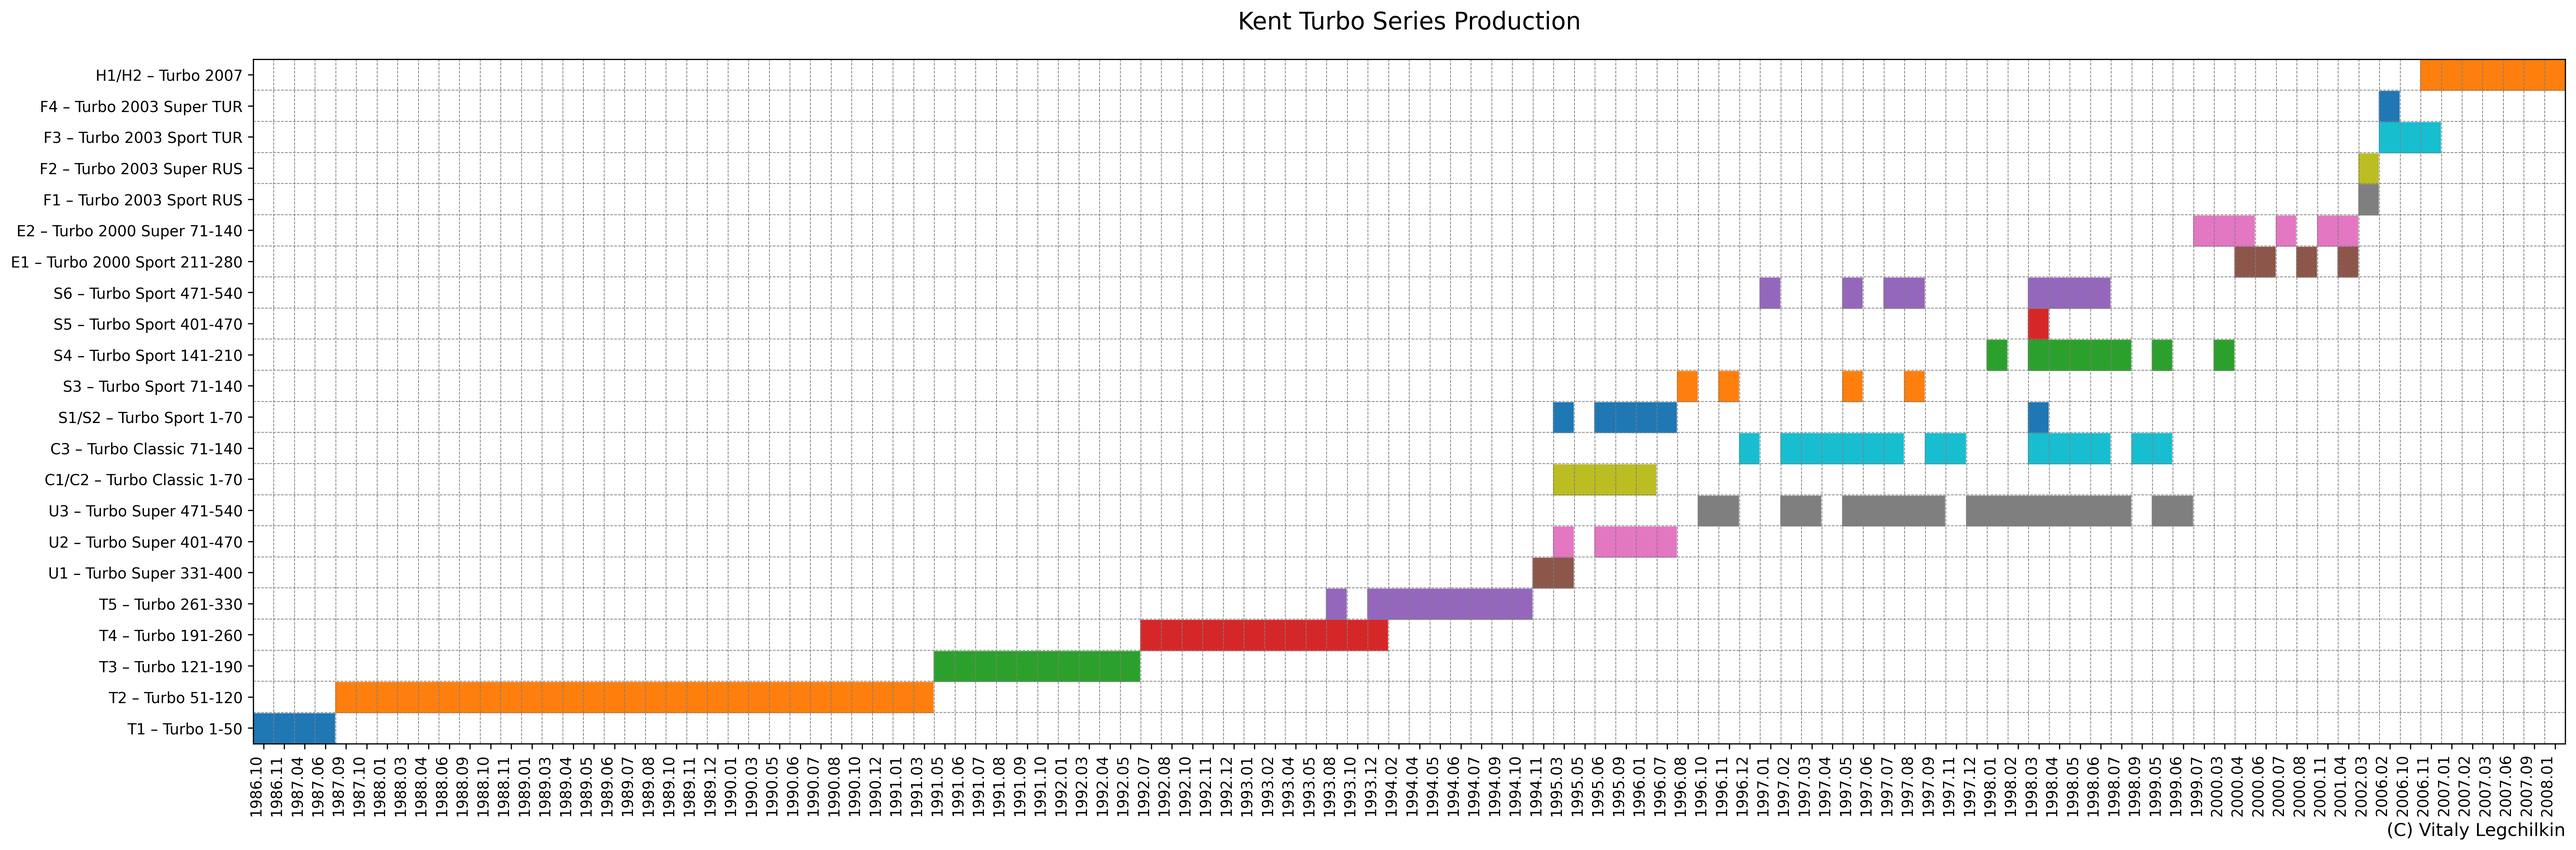
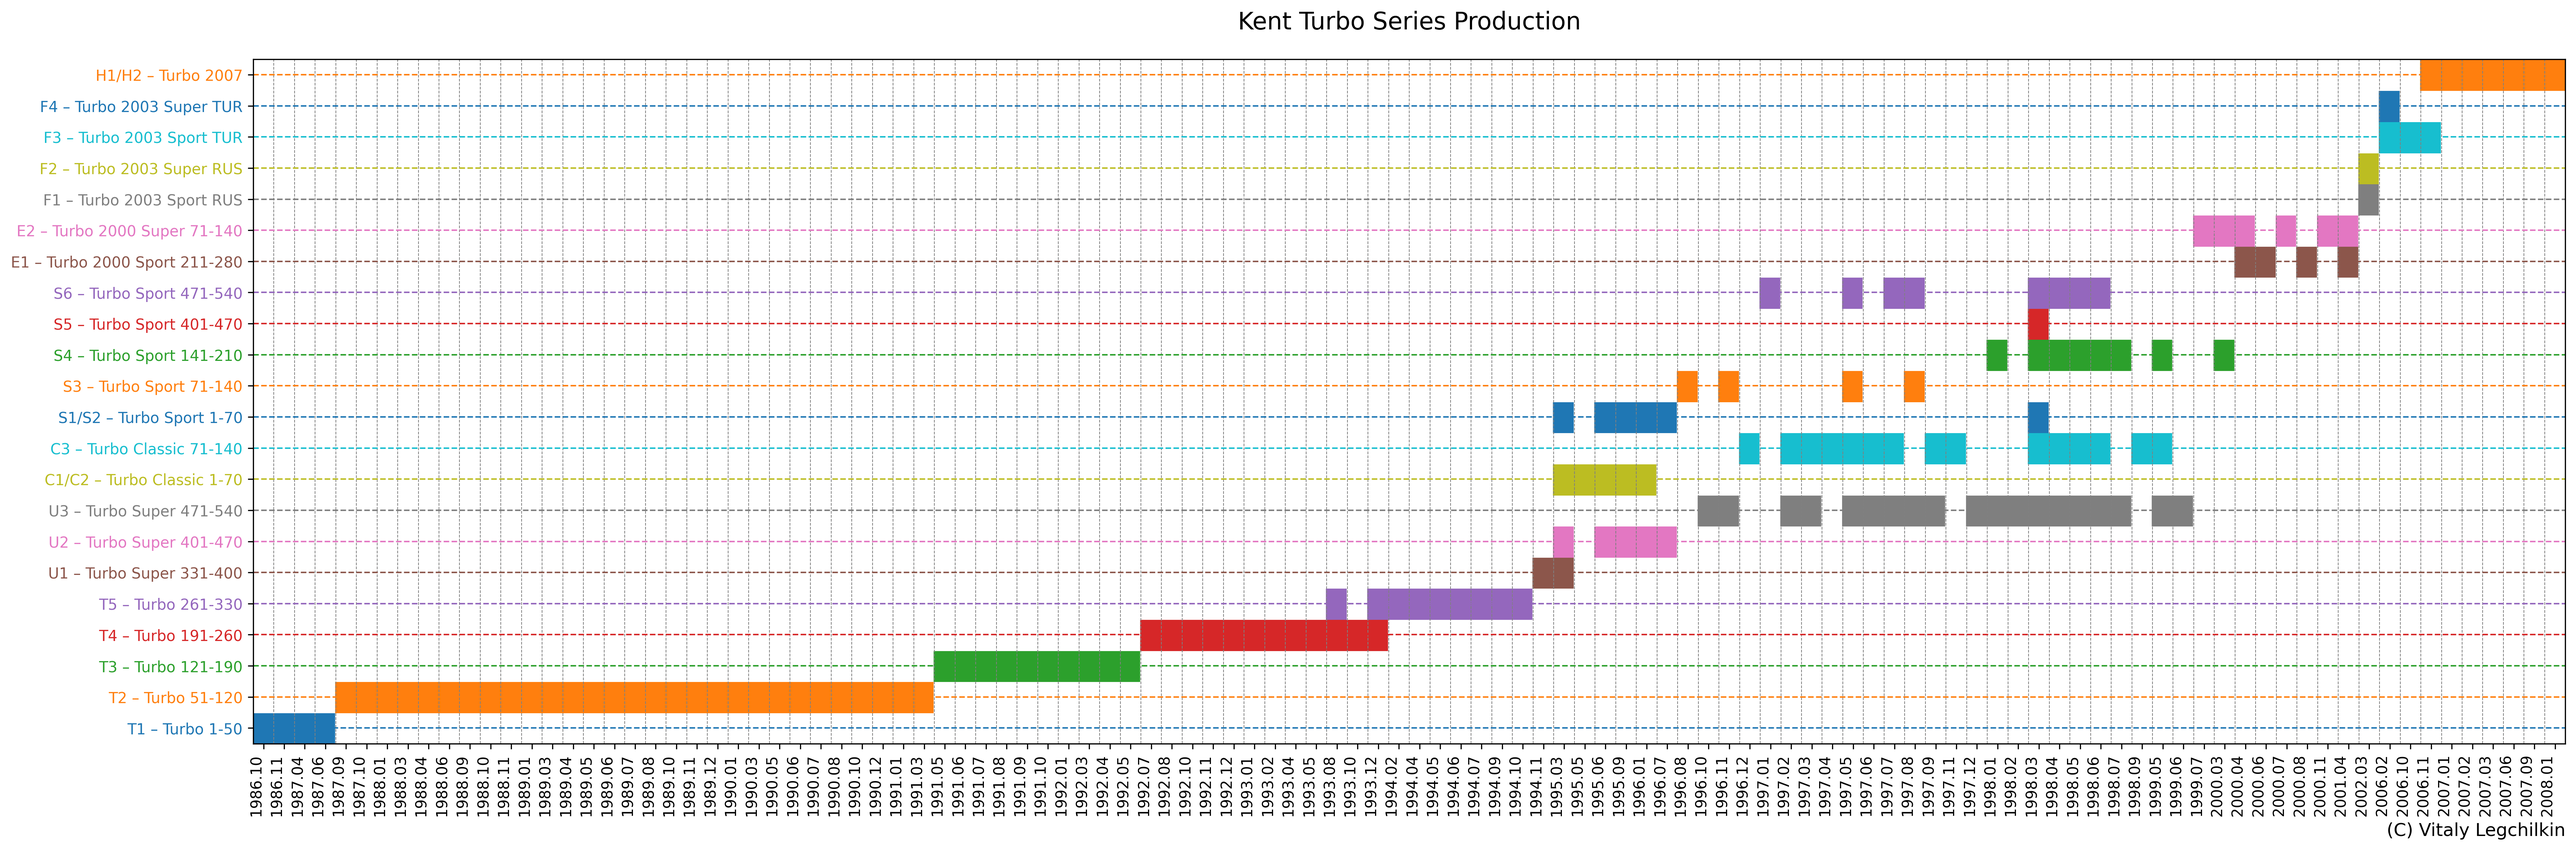
update production image (add colors)

diff --git a/script/production.py b/script/production.py
@@ -1,12 +1,15 @@
 import datetime
 import re
 from pathlib import Path
-from typing import List
+from typing import List, Any
 
 import matplotlib.pyplot as plt
 from matplotlib import colors as mcolors
 import pandas as pd
 import numpy as np
+from matplotlib.axes import Axes
+from matplotlib.axis import Axis
+from matplotlib.figure import Figure
 
 from script import OuterRelease
 
@@ -42,6 +45,7 @@ def draw(releases: dict[str, List[OuterRelease]], output_file):
     ax.set_yticks(np.arange(len(products)) + 0.5)  # Center labels
     ax.set_yticklabels(products, fontsize=10)
     ax.set_yticklabels([name_re.match(product).groups()[0] for product in products], fontsize=10)
+    [t.set_color(colors[idx % len(colors)]) for idx, t in enumerate(ax.yaxis.get_ticklabels())]
 
     # Set labels, title
     ax.set_xlabel("(C) Vitaly Legchilkin", fontsize=12, loc="right")
@@ -52,11 +56,23 @@ def draw(releases: dict[str, List[OuterRelease]], output_file):
     ax.set_xlim(0, len(moments))  # Set limits to align edges
     ax.set_ylim(0, len(products))
 
-    # Add gridlines for clarity
+    # Manually add horizontal grid lines for each product
+    for i, product in enumerate(products):
+        y_center = i + 0.5  # Center the grid line
+        ax.axhline(y=y_center, color=colors[i % len(colors)], linestyle="--", linewidth=1)
+
+    # Add minor gridlines for overall clarity
     ax.set_xticks(np.arange(0, len(moments)), minor=True)
-    ax.set_yticks(np.arange(0, len(products)), minor=True)
     ax.grid(which="minor", color="gray", linestyle="--", linewidth=0.5)
     ax.tick_params(which="minor", bottom=False, left=False)
+
+    # Add gridlines for clarity
+    # ax.set_xticks(np.arange(0, len(moments)), minor=True)
+    # ax.set_yticks(np.arange(0, len(products)), minor=True)
+    # ax.grid(which="minor", color="gray", linestyle="--", linewidth=0.5)
+    # ax.tick_params(which="minor", bottom=False, left=False)
+    # [t.set_color(colors[idx % len(colors)]) for idx, t in enumerate(ax.yaxis.get_ticklines())]
+
 
     plt.tight_layout()
     plt.savefig(output_file, dpi=300, bbox_inches='tight')
